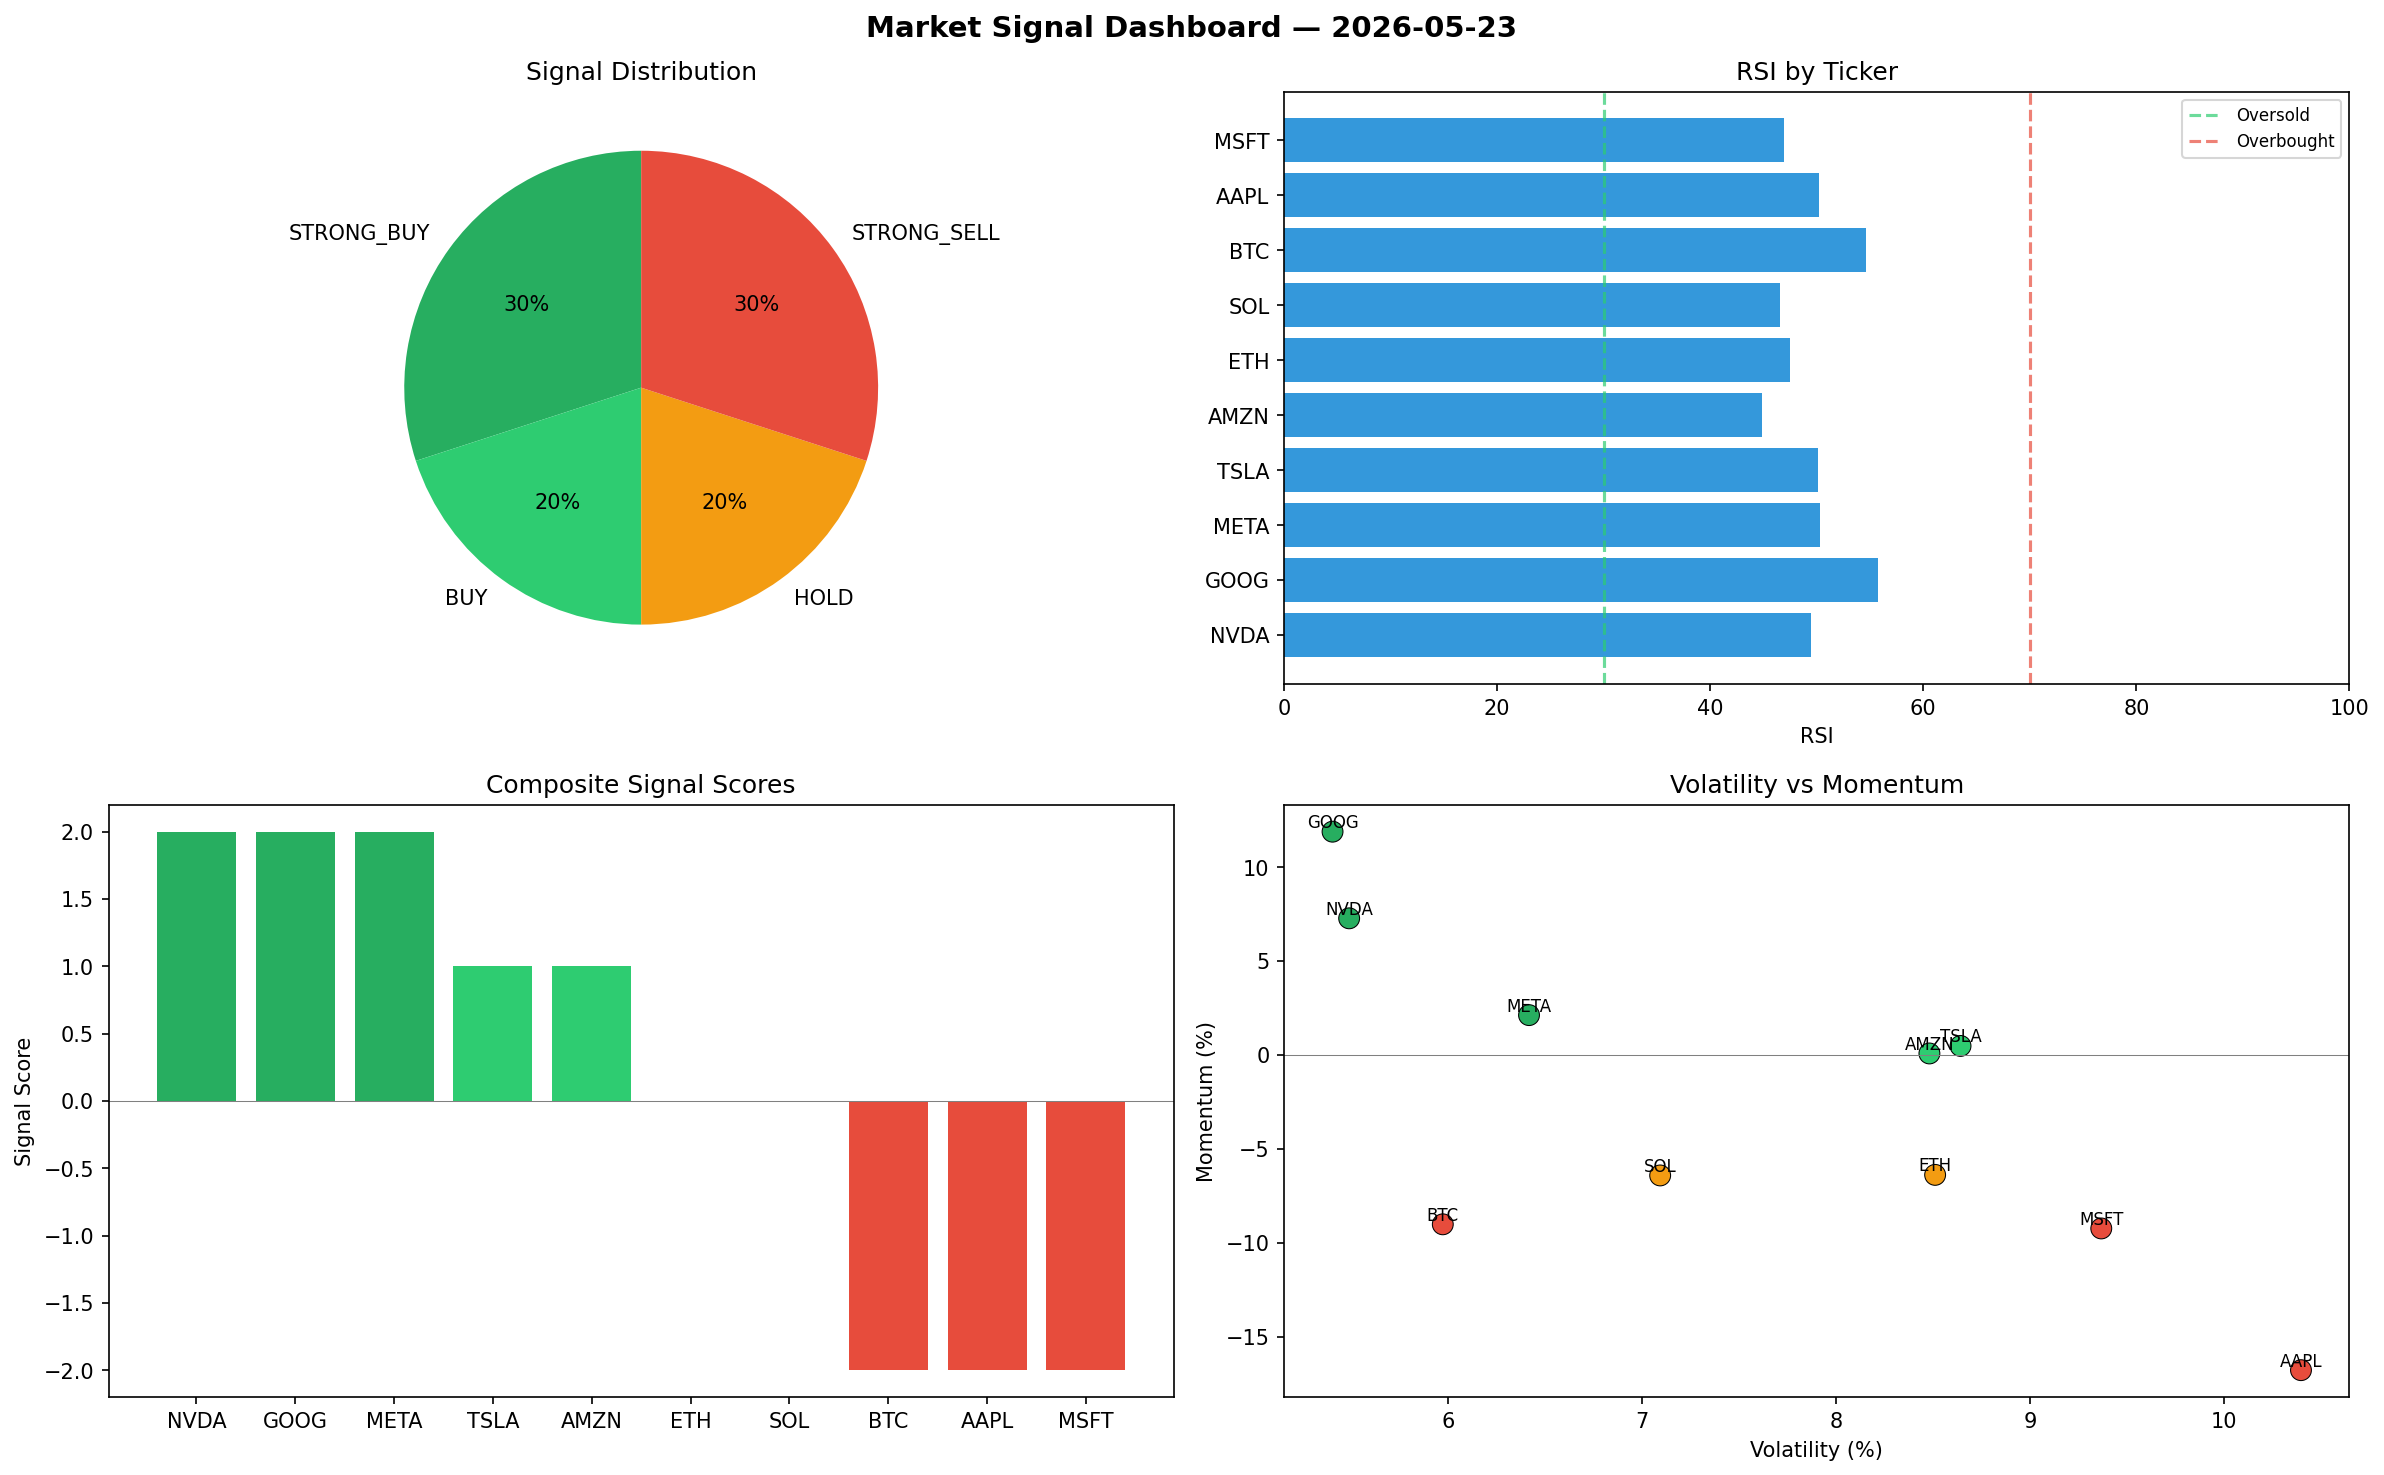
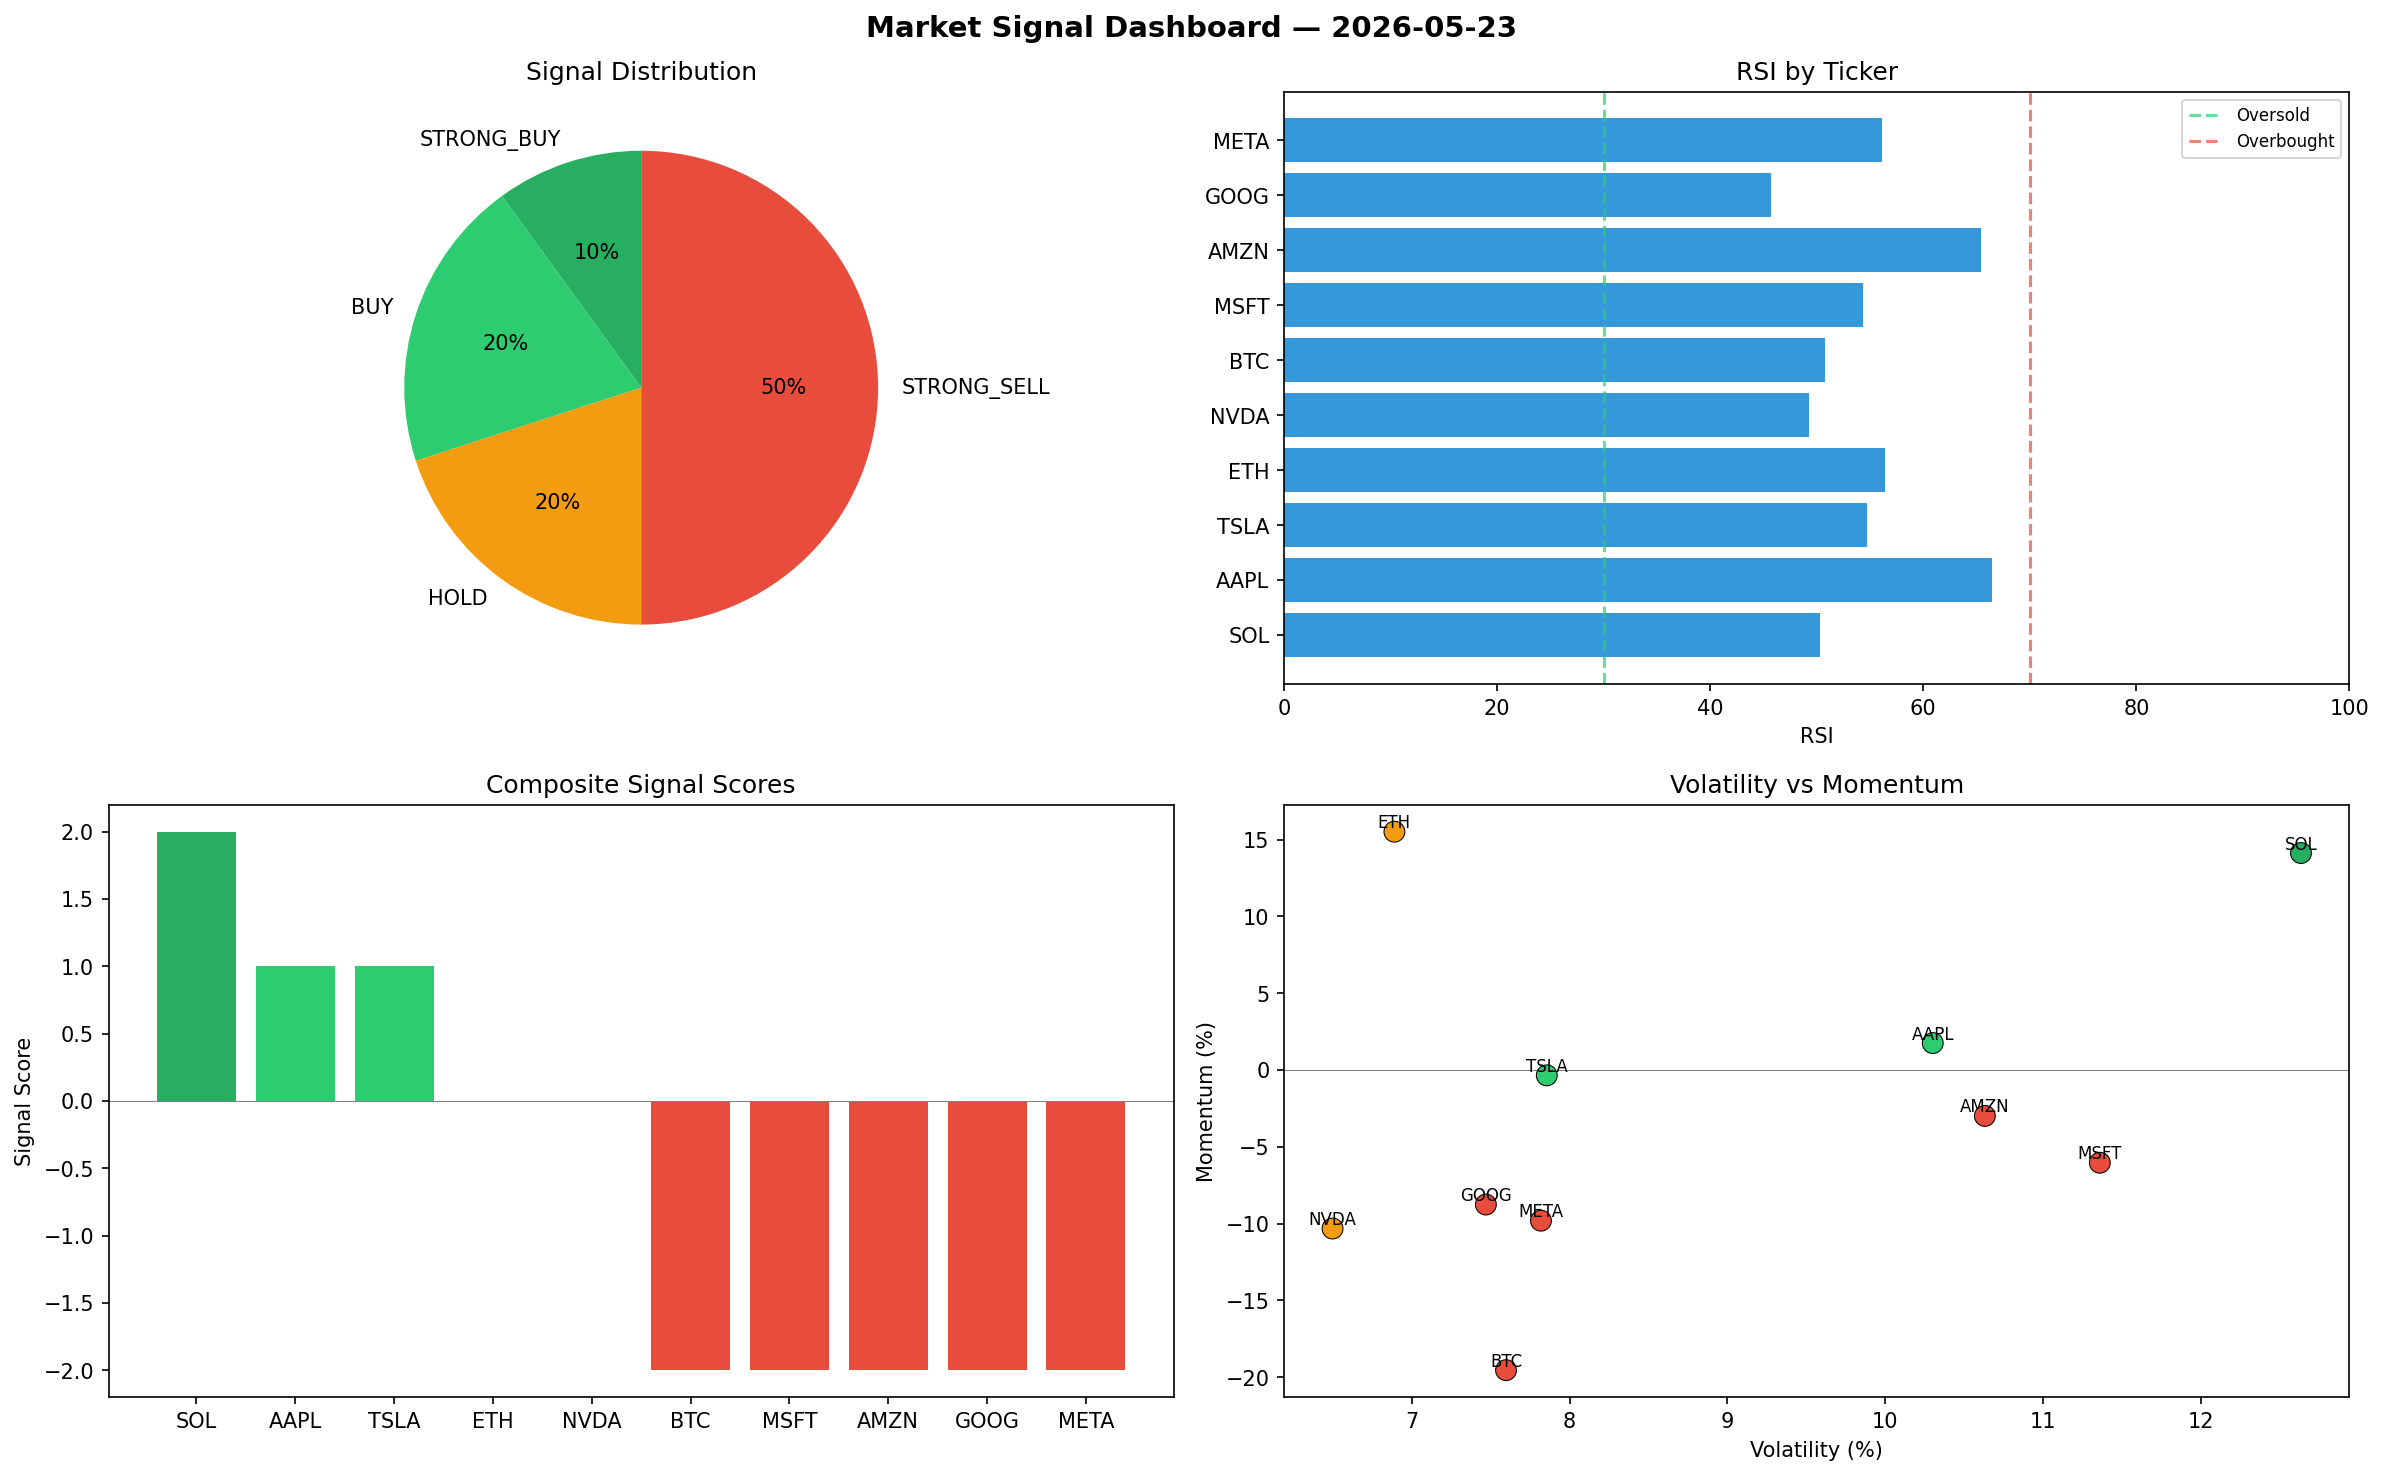
automated-bots: market signals 2026-05-23T10:10

diff --git a/logs/2026-05-23.md b/logs/2026-05-23.md
@@ -1,6 +1,6 @@
 # Market Signal Report — 2026-05-23
 
-**Run ID:** `afd5af1ae3` | **Buy:** 5 | **Sell:** 3 | **Hold:** 2
+**Run ID:** `8bffe23246` | **Buy:** 3 | **Sell:** 5 | **Hold:** 2
 
 ![Dashboard](2026-05-23_dashboard.png)
 
@@ -8,28 +8,28 @@
 
 | Ticker | Price | Signal | Score | RSI | Momentum | Confidence |
 |--------|-------|--------|-------|-----|----------|------------|
-| NVDA | $3088.18 | **STRONG_BUY** | 2 | 49.45 | 0.0727 | 0.5 |
-| GOOG | $480.36 | **STRONG_BUY** | 2 | 55.77 | 0.1188 | 0.5 |
-| META | $348.94 | **STRONG_BUY** | 2 | 50.29 | 0.0212 | 0.5 |
-| TSLA | $807.1 | **BUY** | 1 | 50.07 | 0.0048 | 0.25 |
-| AMZN | $189.67 | **BUY** | 1 | 44.9 | 0.0008 | 0.25 |
-| ETH | $4080.47 | **HOLD** | 0 | 47.5 | -0.0638 | 0.0 |
-| SOL | $2224.9 | **HOLD** | 0 | 46.56 | -0.0641 | 0.0 |
-| BTC | $4230.77 | **STRONG_SELL** | -2 | 54.66 | -0.0901 | 0.5 |
-| AAPL | $1946.05 | **STRONG_SELL** | -2 | 50.17 | -0.1677 | 0.5 |
-| MSFT | $2304.19 | **STRONG_SELL** | -2 | 46.91 | -0.0923 | 0.5 |
+| SOL | $911.45 | **STRONG_BUY** | 2 | 50.27 | 0.1412 | 0.5 |
+| AAPL | $5057.19 | **BUY** | 1 | 66.42 | 0.0175 | 0.25 |
+| TSLA | $2774.13 | **BUY** | 1 | 54.68 | -0.0035 | 0.25 |
+| ETH | $113.57 | **HOLD** | 0 | 56.38 | 0.1551 | 0.0 |
+| NVDA | $2534.68 | **HOLD** | 0 | 49.31 | -0.1032 | 0.0 |
+| BTC | $1250.12 | **STRONG_SELL** | -2 | 50.73 | -0.1954 | 0.5 |
+| MSFT | $1471.52 | **STRONG_SELL** | -2 | 54.36 | -0.0604 | 0.5 |
+| AMZN | $4137.04 | **STRONG_SELL** | -2 | 65.46 | -0.0299 | 0.5 |
+| GOOG | $3527.29 | **STRONG_SELL** | -2 | 45.74 | -0.0876 | 0.5 |
+| META | $975.52 | **STRONG_SELL** | -2 | 56.08 | -0.0981 | 0.5 |
 
 ## Delta vs Yesterday
 
 | Ticker | Today | Yesterday | Price Change | Signal Changed |
 |--------|-------|-----------|-------------|----------------|
-| NVDA | STRONG_BUY | STRONG_BUY | 📈 60.61% | — |
-| GOOG | STRONG_BUY | STRONG_SELL | 📈 62.54% | ⚠ YES |
-| META | STRONG_BUY | BUY | 📉 -88.96% | ⚠ YES |
-| TSLA | BUY | BUY | 📉 -73.87% | — |
-| AMZN | BUY | HOLD | 📉 -95.24% | ⚠ YES |
-| ETH | HOLD | BUY | 📉 -15.3% | ⚠ YES |
-| SOL | HOLD | STRONG_SELL | 📉 -21.14% | ⚠ YES |
-| BTC | STRONG_SELL | STRONG_SELL | 📈 4.41% | — |
-| AAPL | STRONG_SELL | STRONG_SELL | 📉 -52.32% | — |
-| MSFT | STRONG_SELL | HOLD | 📉 -47.01% | ⚠ YES |
+| SOL | STRONG_BUY | STRONG_SELL | 📉 -67.7% | ⚠ YES |
+| AAPL | BUY | STRONG_SELL | 📈 23.9% | ⚠ YES |
+| TSLA | BUY | BUY | 📉 -10.19% | — |
+| ETH | HOLD | BUY | 📉 -97.64% | ⚠ YES |
+| NVDA | HOLD | STRONG_BUY | 📈 31.83% | ⚠ YES |
+| BTC | STRONG_SELL | STRONG_SELL | 📉 -69.15% | — |
+| MSFT | STRONG_SELL | HOLD | 📉 -66.16% | ⚠ YES |
+| AMZN | STRONG_SELL | HOLD | 📈 3.88% | ⚠ YES |
+| GOOG | STRONG_SELL | STRONG_SELL | 📈 1093.51% | — |
+| META | STRONG_SELL | BUY | 📉 -69.13% | ⚠ YES |
